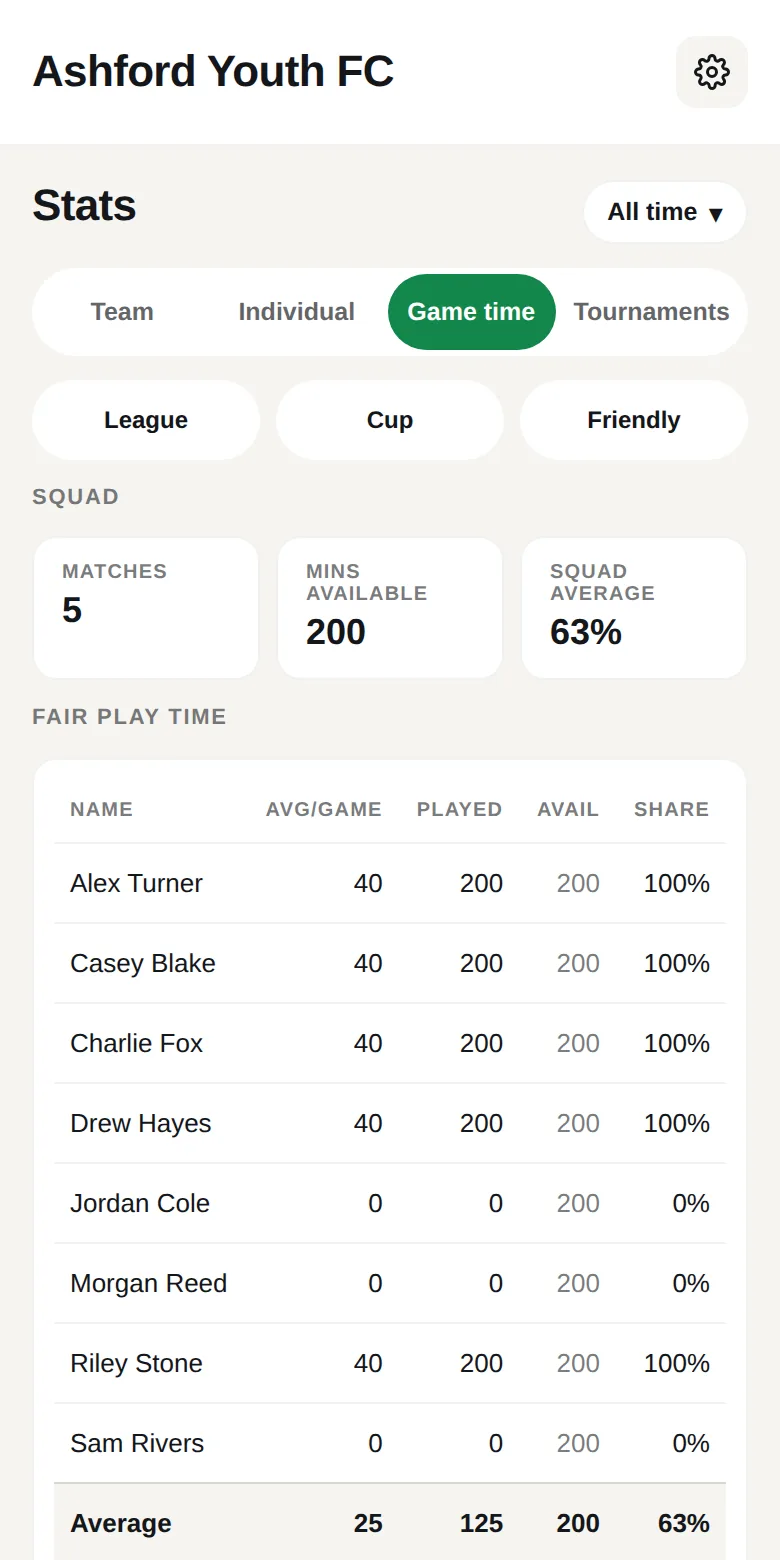
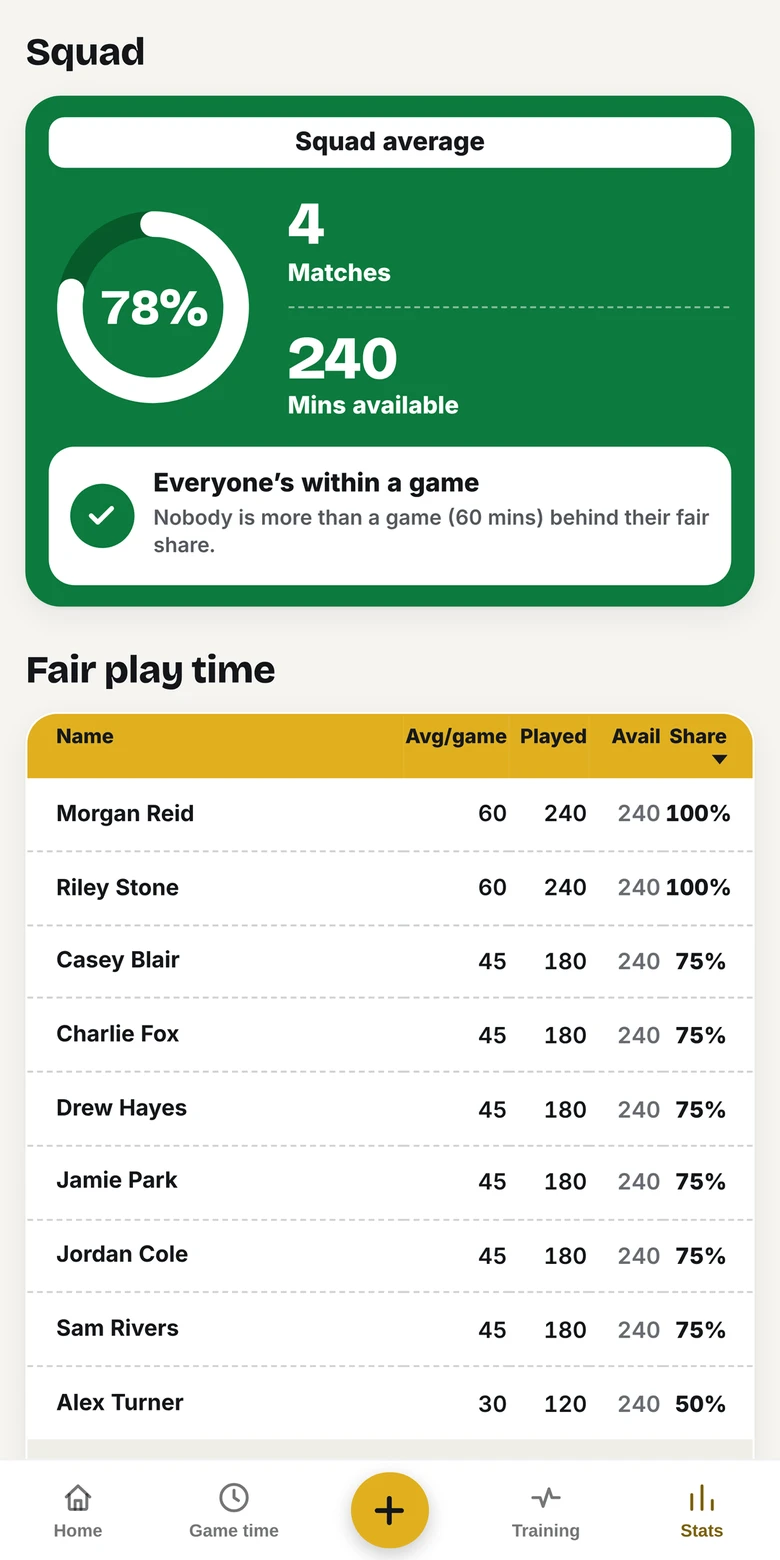
Coach App landing pages: new carousel screenshots in the app's new design
Replace the five screenshots in public/coach-app-screens/ with the Coach
App's new-design set (copied from coach-app public/marketing/, PR #70),
swap goal-details.webp for live-match.webp, and reorder the cards to
match the app's own sign-in carousel: team, availability, live, stats,
game time. Alt text rewritten for the new screens. Logged in
seo-changes-2026-09-06.md.

Claude-Session: https://claude.ai/code/session_01BhzvC1hZYYj4cAGu5kyJ7T

diff --git a/app/components/CoachAppCarousel.tsx b/app/components/CoachAppCarousel.tsx
@@ -8,34 +8,34 @@ import { useCallback, useEffect, useRef, useState } from "react";
 // public/marketing/*.webp, all 780x1560.
 const FEATURES = [
   {
-    title: "Track all your team's stats at the touch of a button",
-    body: "Results, goals, top scorers and more, all worked out for you the moment a match is saved.",
-    image: "stats-team-overview.webp",
-    alt: "Coach App stats screen showing the Team tab: record, goals, leading the squad and a full player stats table",
-  },
-  {
-    title: "Monitor every player's game time",
-    body: "See each player's share of the available minutes update automatically, so game time stays fair without you doing the maths.",
-    image: "stats-team.webp",
-    alt: "Coach App stats screen showing the Fair Play Time table with every player's share of available minutes",
-  },
-  {
     title: "Auto-generate the team",
     body: "Set your formation and rules once, then generate a fair lineup in one tap.",
     image: "team-selection-auto.webp",
-    alt: "Coach App team selection screen showing an auto-generated lineup on the pitch, with formation and mode controls above",
+    alt: "Coach App team selection screen showing an auto-picked lineup on the pitch, with the auto-pick rules above and subs below",
   },
   {
     title: "Track availability",
     body: "Send the availability link and see who's in, who's out and who hasn't replied, at a glance.",
     image: "confirm-squad.webp",
-    alt: "Coach App confirm squad screen showing each player's availability status: available, not available or no reply yet",
+    alt: "Coach App confirm squad screen showing each player's availability from the parent link: eight available and one who can't play",
   },
   {
     title: "Track goals and assists live",
     body: "Log goals, assists and cards from the touchline in a couple of taps, no clipboard needed.",
-    image: "goal-details.webp",
-    alt: "Coach App live match goal details sheet showing body part, goal type and assist selection",
+    image: "live-match.webp",
+    alt: "Coach App live match screen, 2-1 up in the 2nd quarter with the clock running, Goal for and Goal against buttons and the players on the pitch",
+  },
+  {
+    title: "Track all your team's stats at the touch of a button",
+    body: "Results, goals, top scorers and more, all worked out for you the moment a match is saved.",
+    image: "stats-team-overview.webp",
+    alt: "Coach App team stats: win, draw and loss record, top scorer, top assister and player of the match, and goals for and against",
+  },
+  {
+    title: "Monitor every player's game time",
+    body: "See each player's share of the available minutes update automatically, so game time stays fair without you doing the maths.",
+    image: "stats-team.webp",
+    alt: "Coach App game time stats: the squad's average share of minutes and the fair play time table with every player's share",
   },
 ];
 

diff --git a/seo-changes-2026-09-06.md b/seo-changes-2026-09-06.md
@@ -2071,3 +2071,9 @@ Shin pads is on watch to ~13 Nov (30 Oct internal link and homepage block); Grah
 - **Measurement only**, no site change. Commits `225a011` (previews) and `f24c1fa` (bot filter).
 - Vercel preview deployments no longer write to the live first-party tables: `isOwnerRequest()` treats `VERCEL_ENV=preview` as owner traffic, and the cookie-consent and site-search logs skip previews too. Testing the header redesign on its preview put 51 rows into 1 Nov's page views, deleted by hand the same evening.
 - `GoogleOther` and `Google-InspectionTool` are now filtered as bots. The reports apply the patterns on read, so past page views drop by those rows as well: about 160 GoogleOther and 100 URL Inspection views since late August, roughly 3 a day, with Inspection hits landing on the pages where indexing was requested. Before/after page view numbers read slightly lower than when they were first reported, so a small drop across this date is the filter, not traffic.
+
+## 2 Nov 2026: Coach App landing pages, new carousel screenshots
+
+- **Images and alt text only**, on `/football-parent-coach-app` and its four variants (equal-game-time, equal-playing-time-calculator, lineup-builder, team-stats), which all render `CoachAppCarousel`. Titles, meta descriptions, headings, body copy, links and structured data are unchanged.
+- The five screenshots in `public/coach-app-screens/` are replaced with the app's new design, copied from the Coach App's `public/marketing/` (coach-app PR #70). `goal-details.webp` is replaced by `live-match.webp`, and the cards are reordered to match the app's own sign-in carousel: team, availability, live, stats, game time. Alt text is rewritten to describe the new screens.
+- No ranking effect expected. Image search could pick up the new alt text.
